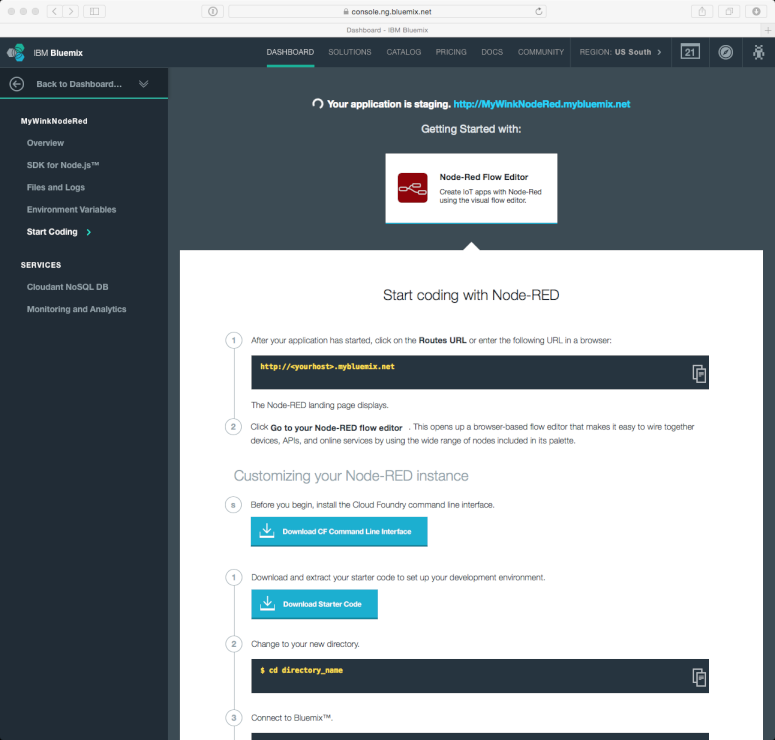
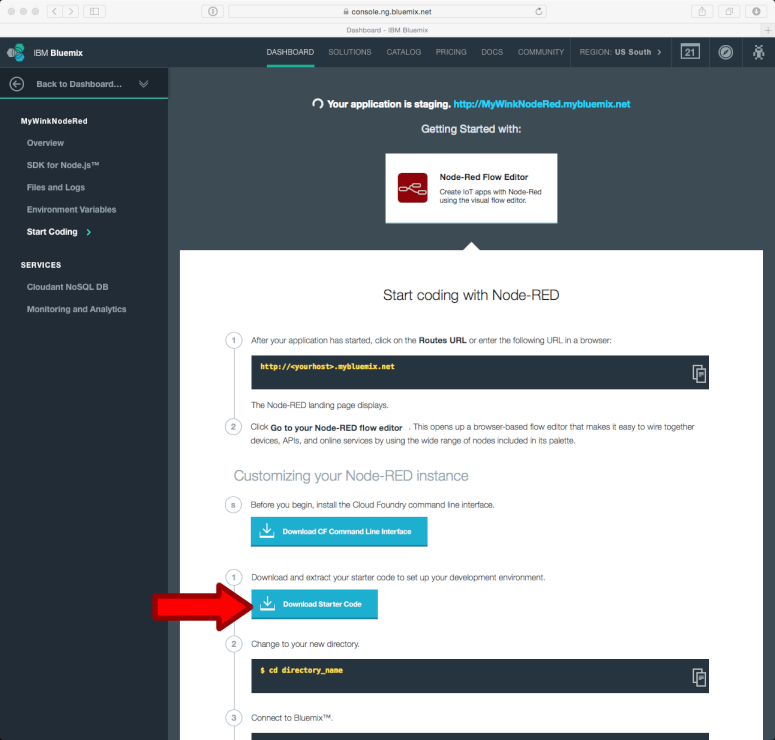
Updated visual cues and text
Aligned text with the images.

Changed region(s): [[0.1858, 0.777, 0.3406, 0.8703]]

diff --git a/README-Bluemix.md b/README-Bluemix.md
@@ -11,34 +11,28 @@ If you haven't already, please signup for a free **IBM Bluemix** account at [htt
 
 <img src='images/01.png'/>
 
-Log in to your account, and make sure that you're on the "Dashboard":
+Log in to your account, and make sure that you're on the "Dashboard" - Scroll down to "Applications" and click on "+ Create an App" and then click on "Web":
 
 <img src='images/02.png'/>
 
-Scroll down to "Applications" and click on "+ Create an App" and then click on "Web":
+Click on "Browse Boilerplates" -- and when the pop-up appears, click on "Browse Boilerplates" in the pop-up:
 
 <img src='images/03.png'/>
 
-Click on "Browse Boilerplates" -- and when the pop-up appears, click on "Browse Boilerplates" in the pop-up:
+Click on "Node-RED Starter" -- you may have to wait a while for the form in the right-hand column to finish loading:
 
 <img src='images/04.png'/>
 
-Click on "Node-RED Starter" -- you may have to wait a while for the form in the right-hand column to finish loading:
-
-<img src='images/05.png'/>
-
 Enter the application "name" in the "Create an app" panel (e.g., "MyWinkNodeRed") --
-the "host" will automatically be filled-in:
+the "host" will automatically be filled-in. Click on "Create":
 
 <img src='images/06.png'/>
 
-Click on "Create" --
-in approximately 30 seconds, the screen will change to "Your application is staging.":
+In approximately 30 seconds, the screen will change to "Your application is staging." While you are waiting, scroll down and click on "Download Starter Code":
 
 <img src='images/07.png'/>
 
-While you are waiting, scroll down and click on "Download Starter Code" --
-this creates a folder named as your application:
+Once downloaded and unzipped, you will have a folder named as your application:
 
 <img src='images/10.png'/>
 
